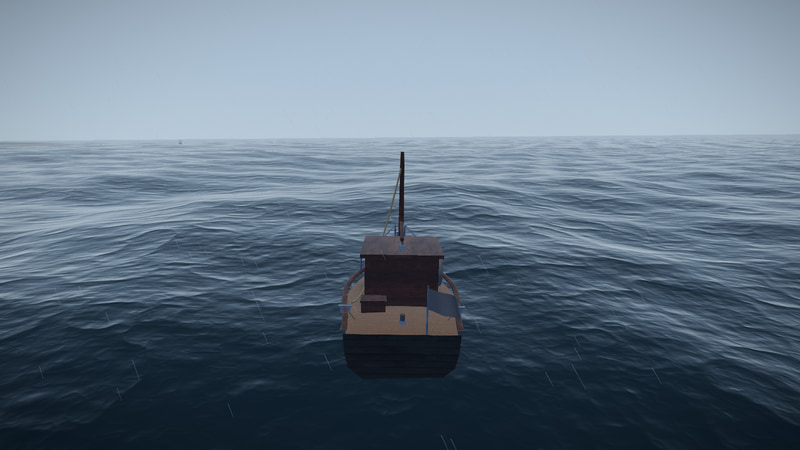
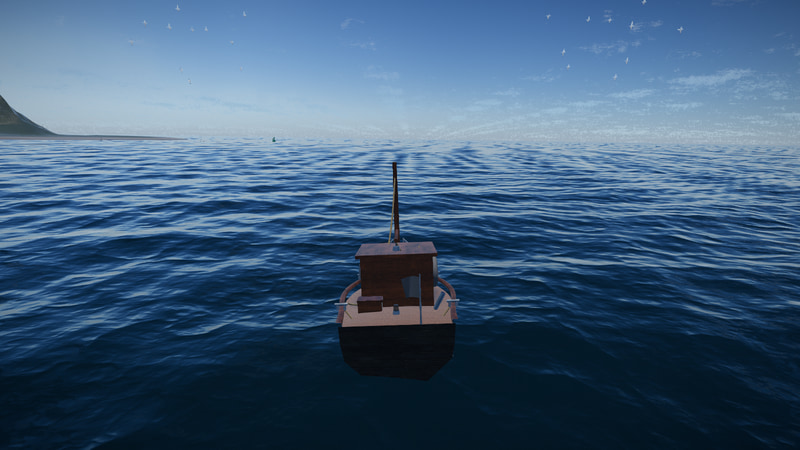
Integrate the Earth's shadow instead of sampling it
Every twilight sky in the game came out in blocks — thirty flat bands up the
dome, edges on the sky-view table's own texel grid, between sunset and full dark.

The instructive part is what did not fix it. Not a four-times-larger sky-view
table, not a four-times-larger multiple-scattering table, not manual bilinear
filtering in the fragment shader, not a triangular-PDF dither at the output.
None of them changes the fact that the quantity being interpolated is itself a
staircase: `skyview.frag` asked `intersectsGround` at each march segment's
*midpoint*, so a segment was all-lit or all-shadowed and the integral jumped by
one whole segment the moment the Earth's shadow crossed a midpoint. Tilt the
view ray a fraction of a degree and it lands on a different segment.

Softening the test with a `smoothstep` does not work either, and it is worth
knowing why: the march distributes its segments quadratically, so they run from
a few hundred metres near the observer to tens of kilometres at the top. One
transition width is far too wide for the near ones and far too narrow for the
far ones, which shifts the balance between the reddened low samples and the blue
high ones and turns the whole sky orange.

What works is to stop sampling the step function and integrate it. The sun's
elevation above a point's own local horizon is very nearly linear across one
segment, so the sunlit fraction is where that line crosses zero — the exact
[…]

diff --git a/scripts/media.ts b/scripts/media.ts
@@ -55,26 +55,32 @@ interface Still {
  *
  * The boat drifts between captures and drives during the one that is under way, so by the end of
  * a run it is a long way from where it started and quite possibly under a headland. The night
- * frame is the one that suffers from that — see the horizon note in PROGRESS.md — so it is taken
- * first, while the boat is still in open water, and the frame that needs the boat to travel is
- * taken last.
+ * frame is the one that suffers from that, so it is taken first, while the boat is still in open
+ * water, and the frame that needs the boat to travel is taken last.
+ *
+ * Every still pins a state, including the ones that are about the hour rather than the weather.
+ * That is not the model being distrusted: it is that a matrix whose top four cells are labelled by
+ * solar altitude has to *vary* by solar altitude, and leaving the weather to the field means the
+ * dawn frame is whatever the field happened to build over the last two and a half hours. It built
+ * a rain squall, and a rain squall at 1.4 km of visibility renders every one of those four cells
+ * in the same single colour — correctly, which is the point. The weather cells carry the weather.
  */
 const STILLS: readonly Still[] = [
   {
     name: '05-night',
     iso: '2026-06-21T21:30:00Z',
     note: 'sun -34 deg, moon down',
-    weather: null,
+    weather: 'partly-cloudy',
     underWay: false,
     settleSeconds: 8,
   },
-  { name: '02-dawn', iso: '2026-06-21T02:45:00Z', note: 'sun +1.0 deg', weather: null, underWay: false, settleSeconds: 8 },
-  { name: '03-noon', iso: '2026-06-21T09:45:00Z', note: 'sun +81 deg', weather: null, underWay: false, settleSeconds: 8 },
+  { name: '02-dawn', iso: '2026-06-21T02:45:00Z', note: 'sun +1.0 deg', weather: 'light-breeze', underWay: false, settleSeconds: 8 },
+  { name: '03-noon', iso: '2026-06-21T09:45:00Z', note: 'sun +81 deg', weather: 'light-breeze', underWay: false, settleSeconds: 8 },
   {
     name: '04-civil-twilight',
     iso: '2026-06-21T17:30:00Z',
     note: 'sun -8 deg',
-    weather: null,
+    weather: 'light-breeze',
     underWay: false,
     settleSeconds: 7,
   },
@@ -98,7 +104,7 @@ const STILLS: readonly Still[] = [
     name: '01-golden-hour',
     iso: '2026-06-21T16:30:00Z',
     note: 'sun +2.9 deg, under way',
-    weather: null,
+    weather: 'partly-cloudy',
     underWay: true,
     settleSeconds: 40,
   },

diff --git a/src/world/Atmosphere.ts b/src/world/Atmosphere.ts
@@ -41,8 +41,24 @@ import skyviewFrag from '../shaders/sky/skyview.frag';
 const TRANSMITTANCE_WIDTH = 256;
 const TRANSMITTANCE_HEIGHT = 64;
 const MULTISCATTER_SIZE = 32;
-const SKYVIEW_WIDTH = 192;
-const SKYVIEW_HEIGHT = 108;
+/**
+ * Sky-view table, and it is four times Hillaire's 192x108 for a reason that is about this scene
+ * rather than about the atmosphere.
+ *
+ * The table is bilinear, so what the sky dome actually shows is a piecewise-linear surface — flat
+ * facets meeting along texel boundaries. On a daytime sky nobody can see it. On a twilight sky,
+ * which is one very smooth ramp through violet across the whole dome, the slope discontinuities
+ * read as hard-edged bands: at 192 texels around the compass a 70-degree field of view gets
+ * thirty-seven of them, which is one band every thirty pixels at 1280 wide — measured on the live
+ * build, and exactly the spacing in the picture.
+ *
+ * Doubling both axes quarters the texel and cuts the discontinuity by sixteen, which puts it
+ * under the eye. It is nearly free: the table is a function of the sun's altitude alone and
+ * rebuilds only when that moves by 0.15 degrees, which is once every twenty seconds of real time,
+ * and it is 663 kB of half-float.
+ */
+const SKYVIEW_WIDTH = 384;
+const SKYVIEW_HEIGHT = 216;
 
 /** Degrees of solar altitude change that triggers a rebuild. */
 const REBUILD_THRESHOLD_DEG = 0.15;

diff --git a/src/world/Sky.ts b/src/world/Sky.ts
@@ -377,7 +377,12 @@ export class Sky implements System {
       engine.renderer,
       state.sunAltitudeDeg,
       DEFAULT_EYE_HEIGHT_M / 1000,
-      Math.max(16, Math.round(engine.settings.graphics.cloudSteps * 0.6)),
+      // Never below thirty-two, whatever the preset says. The table is a function of the sun's
+      // altitude alone and rebuilds only when that moves by 0.15 degrees — once every twenty
+      // seconds of real time — so its step count is not a per-frame cost and tying it to a knob
+      // that *is* one buys nothing. At sixteen steps the twilight arch, which is the steepest
+      // gradient the sky ever has, still shows the segment structure of the march.
+      Math.max(32, Math.round(engine.settings.graphics.cloudSteps * 0.6)),
     );
     if (rebuilt) this.probe.invalidate();
   }

diff --git a/DECISIONS.md b/DECISIONS.md
@@ -404,3 +404,29 @@ Each sample is now the mean of a whole row: a full turn of azimuth, read with on
 flush that reading one texel costs, so the exact hemispherical average is cheaper here than four
 more point samples would have been.
 
+### 31. A binary shadow test inside a raymarch is a staircase
+
+The sky-view march tested whether each sample could see the sun with `intersectsGround`, at the
+segment's midpoint. That makes every segment all-lit or all-shadowed, so at twilight — the only
+time the Earth's shadow crosses a view ray — the integral jumps by one whole segment's worth the
+moment the boundary passes a midpoint. Tilt the ray a fraction of a degree and it lands on a
+different segment. The sky comes out in thirty flat blocks up the dome.
+
+The instructive part is what does *not* fix it. Not a four-times-larger sky-view table, not a
+four-times-larger multiple-scattering table, not manual bilinear filtering in the fragment shader,
+not a triangular-PDF dither at the output — because none of them changes the fact that the
+quantity being interpolated is a staircase. Nor does softening the test with a `smoothstep`: the
+march distributes its segments quadratically, so they run from a few hundred metres near the
+observer to tens of kilometres at the top, and a single transition width is far too wide for the
+near ones and far too narrow for the far ones. That shifts the balance between the reddened low
+samples and the blue high ones, and the whole sky goes orange.
+
+What works is to stop sampling the step function and integrate it. The sun's elevation above a
+point's own local horizon is very nearly linear across one segment, so the sunlit fraction is
+simply where that line crosses zero — the exact integral of the binary test over the segment. No
+bias, no width to tune, and it scales with the segment automatically. Two extra `length` calls per
+step, in a table that rebuilds when the sun moves 0.15 degrees.
+
+The step count is floored at 32 for the same reason: the table is not a per-frame cost, so tying
+its accuracy to a per-frame quality knob buys nothing.
+

diff --git a/PROGRESS.md b/PROGRESS.md
@@ -127,6 +127,18 @@ Ten open bugs closed, each verified on a rendered frame before it was called don
     through white: civil twilight rendered as a flat magenta wash with no gradient in it, sky at
     1.53 where a photographer would put it near 0.7. Each sample is now the mean of a whole row,
     which is a full turn of azimuth and the same single pipeline flush.
+14. **The twilight sky came out in blocks.** Thirty flat bands up the dome, edges on the
+    sky-view table's own texel grid, in every frame between sunset and full dark. It survived a
+    four-times-larger table, a four-times-larger multiple-scattering table, manual bilinear
+    filtering in the shader and a triangular-PDF output dither — because what was being filtered
+    was itself a staircase. `skyview.frag` tested `intersectsGround` at each march segment's
+    *midpoint*, so a segment was all-lit or all-shadowed and the integral jumped by one whole
+    segment the moment the Earth's shadow crossed a midpoint. The elevation of the sun above a
+    sample's own local horizon is very nearly linear across one segment, so the lit fraction is
+    just where that line crosses zero: exact, unbiased, and it scales with the segment
+    automatically. A fixed-width `smoothstep` does *not* work — the segments are quadratically
+    distributed and span hundreds of metres to tens of kilometres, so one width shifts the balance
+    between the reddened low samples and the blue high ones and turns the sky orange.
 
 ## Known issues
 

diff --git a/README.md b/README.md
@@ -4,7 +4,7 @@ An endless ocean, under the sky that is actually above you right now.
 
 **[Play it →](https://winchxyz.github.io/endless-fishing/)**
 
-![The boat under way at golden hour, in the swell left behind by a gale](docs/media/01-golden-hour.jpg)
+![The boat under way at golden hour under a broken sky](docs/media/01-golden-hour.jpg)
 
 | Dawn — sun +1° | Noon — sun +81° |
 |---|---|
